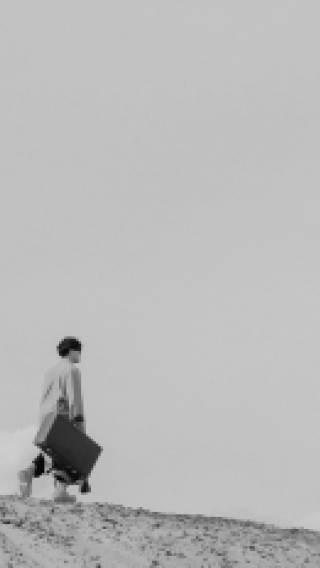
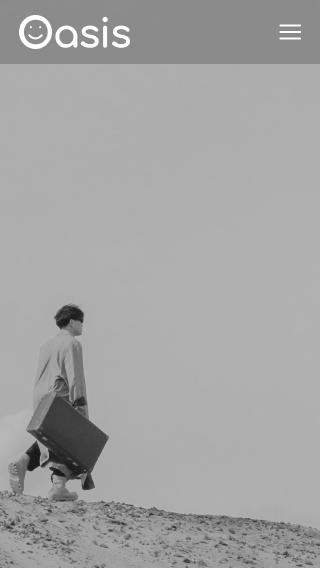
NUOVA COMMIT

Changed region(s): [[0.0, 0.5088, 1.0, 1.0], [0.0, 0.0, 1.0, 0.1197]]

diff --git a/storia.html b/storia.html
@@ -128,11 +128,13 @@
             <div class="col-md-5">
               <h3 class="h2">Preludio</h3>
               <p>
-                Anno 2020, inizia la pandemia da COVID-19. Mentre le attenzioni
-                del mondo sono rivolte alla gestione dei contagi, un piccolo
-                gruppo di scenziati fa una scoperta spaventosa. Il riscaldamento
+                Anno 2020, inizia la pandemia da
+                <strong>COVID-19</strong> COVID-19. Mentre le attenzioni del
+                mondo sono rivolte alla gestione dei contagi, un piccolo gruppo
+                di scenziati fa una scoperta spaventosa. Il riscaldamento
                 globale sta accelerando e le previsioni si avvereranno in
-                anticipo di almeno dieci anni. Alcuni imprenditori illuminati
+                anticipo di almeno dieci anni. Alcuni
+                <strong>imprenditori illuminati</strong>
                 iniziano a discutere di un nuovo progetto edilizio. La chiave di
                 tutto è
                 <strong>l’acqua.</strong>
@@ -167,9 +169,9 @@
                 desertificazione accelera ed è sempre più difficile produrre
                 cibo. Gruppi di persone migrano vicino alle poche fonti d'acqua
                 rimaste, causando non pochi conflitti - spesso anche armati. La
-                progettazione della città è completata, il sito di costruzione è
-                stato individuato in un oasi del deserto occidentale. Iniziano i
-                lavori di realizzazione di Oasis.
+                <strong>progettazione</strong> della città è completata, il sito
+                di costruzione è stato individuato in un oasi del deserto
+                occidentale. Iniziano i lavori di realizzazione di Oasis.
               </p>
             </div>
           </div>
@@ -194,10 +196,12 @@
             <div class="col-md-5">
               <h3 class="h2">OASIS prende forma</h3>
               <p>
-                Oasis è ultimata. In un mondo devastato da guerre Oasis è uno
-                dei pochi luoghi al mondo dove regna la pace. C’è crescita
-                economica, e durante questi anni vengono costruite le strutture
-                che porteranno alla nascita del servizio benessere.
+                Oasis è ultimata. In un mondo
+                <strong>devastato da guerre</strong> Oasis è uno dei pochi
+                luoghi al mondo dove regna la pace. C’è un periodo di
+                <strong>forte crescita economica</strong>, e durante questi anni
+                vengono costruite le strutture che porteranno alla nascita del
+                servizio benessere.
               </p>
             </div>
           </div>
@@ -224,10 +228,11 @@
               <p>
                 La crescita non dura però a lungo ed è necessario espandersi.
                 Una metropoli abbandonata a pochi chilometri di distanza sarà il
-                secondo nucleo di Oasis. Con un maggior numero di residenze sarà
-                più facile reclutare nuovi cittadini che lavorino per far
-                crescere Oasis. Nasce il servizio formazione per plasmare le
-                competenze necessarie.
+                <strong>secondo nucleo di Oasis</strong>. Con un maggior numero
+                di residenze sarà più facile reclutare
+                <strong>nuovi cittadini</strong> che lavorino per far crescere
+                Oasis. Nasce il servizio formazione per plasmare le competenze
+                necessarie.
               </p>
             </div>
           </div>
@@ -259,11 +264,12 @@
             <div class="col-md-5">
               <h3 class="h2">Il sogno dei fondatori continua ad essere vivo</h3>
               <p>
-                Negli anni l’amministrazione ha messo in piedi una struttura
-                organizzativa centralizzata per coordinare i lavori e fatto
-                costruire un quartier generale che è anche la residenza del
-                sindaco. I cittadini sono felici e non immaginano una vita fuori
-                da Oasis.
+                Negli anni l’amministrazione ha messo in piedi una
+                <strong>struttura organizzativa</strong> centralizzata per
+                coordinare i lavori e fatto costruire un quartier generale che è
+                anche la residenza del sindaco. I cittadini sono
+                <strong>felici</strong> e non immaginano una vita fuori da
+                Oasis.
               </p>
             </div>
           </div>
@@ -286,12 +292,12 @@
           border-bottom border-primary
         "
       >
-        <a class="nav-link" href="/index.html">Home</a>
-        <a class="nav-link" href="/descrizione.html">Descrizione</a>
-        <a class="nav-link" href="/storia.html">Storia</a>
-        <a class="nav-link" href="/servizi.html">Servizi</a>
-        <a class="nav-link" href="/eventi.html">Eventi</a>
-        <a class="nav-link" href="/unisciti.html">Unisciti a noi</a>
+        <a class="nav-link" href="./index.html">Home</a>
+        <a class="nav-link" href="./descrizione.html">Descrizione</a>
+        <a class="nav-link" href="./storia.html">Storia</a>
+        <a class="nav-link" href="./servizi.html">Servizi</a>
+        <a class="nav-link" href="./eventi.html">Eventi</a>
+        <a class="nav-link" href="./unisciti.html">Unisciti a noi</a>
       </nav>
       <!-- Copyright -->
       <p class="small text-center text-light py-3 mb-0">&copy; Oasis Inc.</p>

diff --git a/descrizione.html b/descrizione.html
@@ -136,10 +136,11 @@
             <div class="col-md col-lg-5">
               <h3>Sorgensis</h3>
               <p>
-                Sorgensis è dove tutto ha avuto inizio. Si trova nel bel mezzo
-                del deserto in prossimità della fonte che fornisce acqua a tutta
-                la città. Nel tempo sono state costruite le strutture termali,
-                dove ribilanciare il proprio stato psicofisico. Qui a Sorgensis
+                Sorgensis è dove tutto ha avuto inizio. Si trova nel mezzo del
+                deserto in prossimità della <strong>fonte</strong> che fornisce
+                acqua a tutta la città. Nel tempo sono state costruite le
+                strutture termali, dove ribilanciare il proprio
+                <strong>stato psicofisico</strong>. Qui a Sorgensis
                 preoccupazioni e pensieri negativi spariscono immediatamente. E’
                 qui che riappacifichiamo il tuo rapporto con la Natura.
               </p>
@@ -167,10 +168,15 @@
             <div class="col-md col-lg-5">
               <h3>Centrisis</h3>
               <p>
-                È il quartiere dove è collocata la vita di Oasis e dei suoi
-                cittadini. Case, uffici, servizi essenziali, accademie, locali
-                notturni. E’ qui che giorno dopo giorno diamo vita alla città
-                del futuro e ritroverai il piacere di socializzare e lavorare.
+                È il quartiere dove è collocata la
+                <strong>vita di Oasis</strong> e dei suoi cittadini. Case,
+                uffici, servizi essenziali, accademie, locali notturni. E’ qui
+                che giorno dopo giorno diamo vita alla città del futuro e
+                ritroverai il piacere di socializzare e lavorare. È stata
+                costruita in un punto lontano da Sorgensis per permettere di
+                tenere debitamente separati <strong>lavoro</strong> e relax. Ci
+                teniamo che non veniate tentati dal riposo mentre state
+                guadagnando soldi.
               </p>
             </div>
           </div>
@@ -194,11 +200,13 @@
             <div class="col-md col-lg-5">
               <h3>Burocrasis</h3>
               <p>
-                È il quartiere amministrativo. È la casa della burocrazia e dove
-                ha sede la residenza del sindaco. Una zona necessaria per
-                mandare avanti la città. Nel quartiere palazzo gli eventi
-                mondani sono solo incontri formali per pensare al bene della
-                città
+                È il quartiere <strong>amministrativo</strong>. È la casa della
+                burocrazia e dove ha sede il palazzo del sindaco. Una zona
+                necessaria per mandare avanti la città e dove noi di Oasis ci
+                prendiamo cura di voi senza mai lamentarci. Nel quartiere
+                Burocrasis gli eventi mondani sono incontri formali per pensare
+                al bene della città, qui lavoriamo incessantemente per creare la
+                <strong>stirpe più perfetta</strong> per la Terra.
               </p>
             </div>
           </div>
@@ -210,11 +218,12 @@
           <h2 class="text-center">Dove siamo</h2>
           <p class="text-center mb-5">
             OASIS si trova nel mezzo del Deserto Occidentale, ma la sua
-            posizione è e deve rimanere strettamente segreta per impedire che
-            venga saccheggiata o attaccata dagli abitanti del Mondo Esterno in
-            lotta contro il nostro sistema elitario. Se sei interessato a
-            raggiungerci e ad abitare nella Culla del Tuo Futuro inviaci il form
-            compilato.
+            posizione è e deve rimanere
+            <strong>strettamente segreta</strong> per impedire che venga
+            saccheggiata o attaccata dagli abitanti del Mondo Esterno in lotta
+            contro il nostro <strong>sistema elitario</strong>. Se sei
+            interessato a raggiungerci e ad abitare nella Culla del Tuo Futuro
+            inviaci il form compilato.
           </p>
         </div>
         <img class="img-fluid w-100" src="img/img_desc4.jpg" alt="mappa" />
@@ -236,12 +245,12 @@
           border-bottom border-primary
         "
       >
-        <a class="nav-link" href="/index.html">Home</a>
-        <a class="nav-link" href="/descrizione.html">Descrizione</a>
-        <a class="nav-link" href="/storia.html">Storia</a>
-        <a class="nav-link" href="/servizi.html">Servizi</a>
-        <a class="nav-link" href="/eventi.html">Eventi</a>
-        <a class="nav-link" href="/unisciti.html">Unisciti a noi</a>
+        <a class="nav-link" href="./index.html">Home</a>
+        <a class="nav-link" href="./descrizione.html">Descrizione</a>
+        <a class="nav-link" href="./storia.html">Storia</a>
+        <a class="nav-link" href="./servizi.html">Servizi</a>
+        <a class="nav-link" href="./eventi.html">Eventi</a>
+        <a class="nav-link" href="./unisciti.html">Unisciti a noi</a>
       </nav>
       <!-- Copyright -->
       <p class="small text-center text-light py-3 mb-0">&copy; Oasis Inc.</p>

diff --git a/formazione.html b/formazione.html
@@ -152,8 +152,10 @@
           <div class="mb-5">
             <h2 class="text-center">Le scuole</h2>
             <p class="lead text-center">
-              Gli psicologi sapranno poi indicarti l’unica direzione giusta per
-              le tue inclinazioni.
+              I nostri pluriqualificati psicologi sapranno indicarti l’unica
+              direzione giusta per sfruttare le tue inclinazioni. Non dovrai
+              fare altro nella vita che assecondarle e noi ti daremo gli
+              strumenti giusti per farlo.
             </p>
           </div>
 
@@ -249,12 +251,12 @@
           border-bottom border-primary
         "
       >
-        <a class="nav-link" href="/index.html">Home</a>
-        <a class="nav-link" href="/descrizione.html">Descrizione</a>
-        <a class="nav-link" href="/storia.html">Storia</a>
-        <a class="nav-link" href="/servizi.html">Servizi</a>
-        <a class="nav-link" href="/eventi.html">Eventi</a>
-        <a class="nav-link" href="/unisciti.html">Unisciti a noi</a>
+        <a class="nav-link" href="./index.html">Home</a>
+        <a class="nav-link" href="./descrizione.html">Descrizione</a>
+        <a class="nav-link" href="./storia.html">Storia</a>
+        <a class="nav-link" href="./servizi.html">Servizi</a>
+        <a class="nav-link" href="./eventi.html">Eventi</a>
+        <a class="nav-link" href="./unisciti.html">Unisciti a noi</a>
       </nav>
       <!-- Copyright -->
       <p class="small text-center text-light py-3 mb-0">&copy; Oasis Inc.</p>

diff --git a/index.html b/index.html
@@ -117,7 +117,9 @@
           <h1 class="display-1">Oasis</h1>
           <h2 class="lead">La culla del tuo futuro</h2>
           <div>
-            <button class="btn btn-primary mt-3">Unisciti a noi</button>
+            <a class="btn btn-primary mt-3" href="unisciti.html"
+              >Unisciti a noi
+            </a>
           </div>
         </div>
       </section>
@@ -339,12 +341,12 @@
           border-bottom border-primary
         "
       >
-        <a class="nav-link" href="/index.html">Home</a>
-        <a class="nav-link" href="/descrizione.html">Descrizione</a>
-        <a class="nav-link" href="/storia.html">Storia</a>
-        <a class="nav-link" href="/servizi.html">Servizi</a>
-        <a class="nav-link" href="/eventi.html">Eventi</a>
-        <a class="nav-link" href="/unisciti.html">Unisciti a noi</a>
+        <a class="nav-link" href="./index.html">Home</a>
+        <a class="nav-link" href="./descrizione.html">Descrizione</a>
+        <a class="nav-link" href="./storia.html">Storia</a>
+        <a class="nav-link" href="./servizi.html">Servizi</a>
+        <a class="nav-link" href="./eventi.html">Eventi</a>
+        <a class="nav-link" href="./unisciti.html">Unisciti a noi</a>
       </nav>
       <!-- Copyright -->
       <p class="small text-center text-light py-3 mb-0">&copy; Oasis Inc.</p>

diff --git a/benessere.html b/benessere.html
@@ -250,12 +250,12 @@
           border-bottom border-primary
         "
       >
-        <a class="nav-link" href="/index.html">Home</a>
-        <a class="nav-link" href="/descrizione.html">Descrizione</a>
-        <a class="nav-link" href="/storia.html">Storia</a>
-        <a class="nav-link" href="/servizi.html">Servizi</a>
-        <a class="nav-link" href="/eventi.html">Eventi</a>
-        <a class="nav-link" href="/unisciti.html">Unisciti a noi</a>
+        <a class="nav-link" href="./index.html">Home</a>
+        <a class="nav-link" href="./descrizione.html">Descrizione</a>
+        <a class="nav-link" href="./storia.html">Storia</a>
+        <a class="nav-link" href="./servizi.html">Servizi</a>
+        <a class="nav-link" href="./eventi.html">Eventi</a>
+        <a class="nav-link" href="./unisciti.html">Unisciti a noi</a>
       </nav>
       <!-- Copyright -->
       <p class="small text-center text-light py-3 mb-0">&copy; Oasis Inc.</p>

diff --git a/eventi.html b/eventi.html
@@ -309,12 +309,12 @@
           border-bottom border-primary
         "
       >
-        <a class="nav-link" href="/index.html">Home</a>
-        <a class="nav-link" href="/descrizione.html">Descrizione</a>
-        <a class="nav-link" href="/storia.html">Storia</a>
-        <a class="nav-link" href="/servizi.html">Servizi</a>
-        <a class="nav-link" href="/eventi.html">Eventi</a>
-        <a class="nav-link" href="/unisciti.html">Unisciti a noi</a>
+        <a class="nav-link" href="./index.html">Home</a>
+        <a class="nav-link" href="./descrizione.html">Descrizione</a>
+        <a class="nav-link" href="./storia.html">Storia</a>
+        <a class="nav-link" href="./servizi.html">Servizi</a>
+        <a class="nav-link" href="./eventi.html">Eventi</a>
+        <a class="nav-link" href="./unisciti.html">Unisciti a noi</a>
       </nav>
       <!-- Copyright -->
       <p class="small text-center text-light py-3 mb-0">&copy; Oasis Inc.</p>

diff --git a/servizi.html b/servizi.html
@@ -228,12 +228,12 @@
           border-bottom border-primary
         "
       >
-        <a class="nav-link" href="/index.html">Home</a>
-        <a class="nav-link" href="/descrizione.html">Descrizione</a>
-        <a class="nav-link" href="/storia.html">Storia</a>
-        <a class="nav-link" href="/servizi.html">Servizi</a>
-        <a class="nav-link" href="/eventi.html">Eventi</a>
-        <a class="nav-link" href="/unisciti.html">Unisciti a noi</a>
+        <a class="nav-link" href="./index.html">Home</a>
+        <a class="nav-link" href="./descrizione.html">Descrizione</a>
+        <a class="nav-link" href="./storia.html">Storia</a>
+        <a class="nav-link" href="./servizi.html">Servizi</a>
+        <a class="nav-link" href="./eventi.html">Eventi</a>
+        <a class="nav-link" href="./unisciti.html">Unisciti a noi</a>
       </nav>
       <!-- Copyright -->
       <p class="small text-center text-light py-3 mb-0">&copy; Oasis Inc.</p>

diff --git a/unisciti.html b/unisciti.html
@@ -250,12 +250,12 @@
           border-bottom border-primary
         "
       >
-        <a class="nav-link" href="/index.html">Home</a>
-        <a class="nav-link" href="/descrizione.html">Descrizione</a>
-        <a class="nav-link" href="/storia.html">Storia</a>
-        <a class="nav-link" href="/servizi.html">Servizi</a>
-        <a class="nav-link" href="/eventi.html">Eventi</a>
-        <a class="nav-link" href="/unisciti.html">Unisciti a noi</a>
+        <a class="nav-link" href="./index.html">Home</a>
+        <a class="nav-link" href="./descrizione.html">Descrizione</a>
+        <a class="nav-link" href="./storia.html">Storia</a>
+        <a class="nav-link" href="./servizi.html">Servizi</a>
+        <a class="nav-link" href="./eventi.html">Eventi</a>
+        <a class="nav-link" href="./unisciti.html">Unisciti a noi</a>
       </nav>
       <!-- Copyright -->
       <p class="small text-center text-light py-3 mb-0">&copy; Oasis Inc.</p>

diff --git a/css/style.css b/css/style.css
@@ -189,10 +189,19 @@ a {
   background-size: cover;
 }
 #hero-home {
-  --hero-bg: url("../img/HeaderHome.jpg");
+  --hero-bg: url("../img/HeaderHomeMobile.jpg");
   background-size: cover;
   position: relative;
 }
+
+@media (min-width: 768px) {
+  #hero-home {
+    --hero-bg: url("../img/HeaderHomeDesktop.jpg");
+    background-size: cover;
+    position: relative;
+  }
+}
+
 #hero-descrizione {
   --hero-bg: url("../img/Header_Descrizione.jpg");
 }
